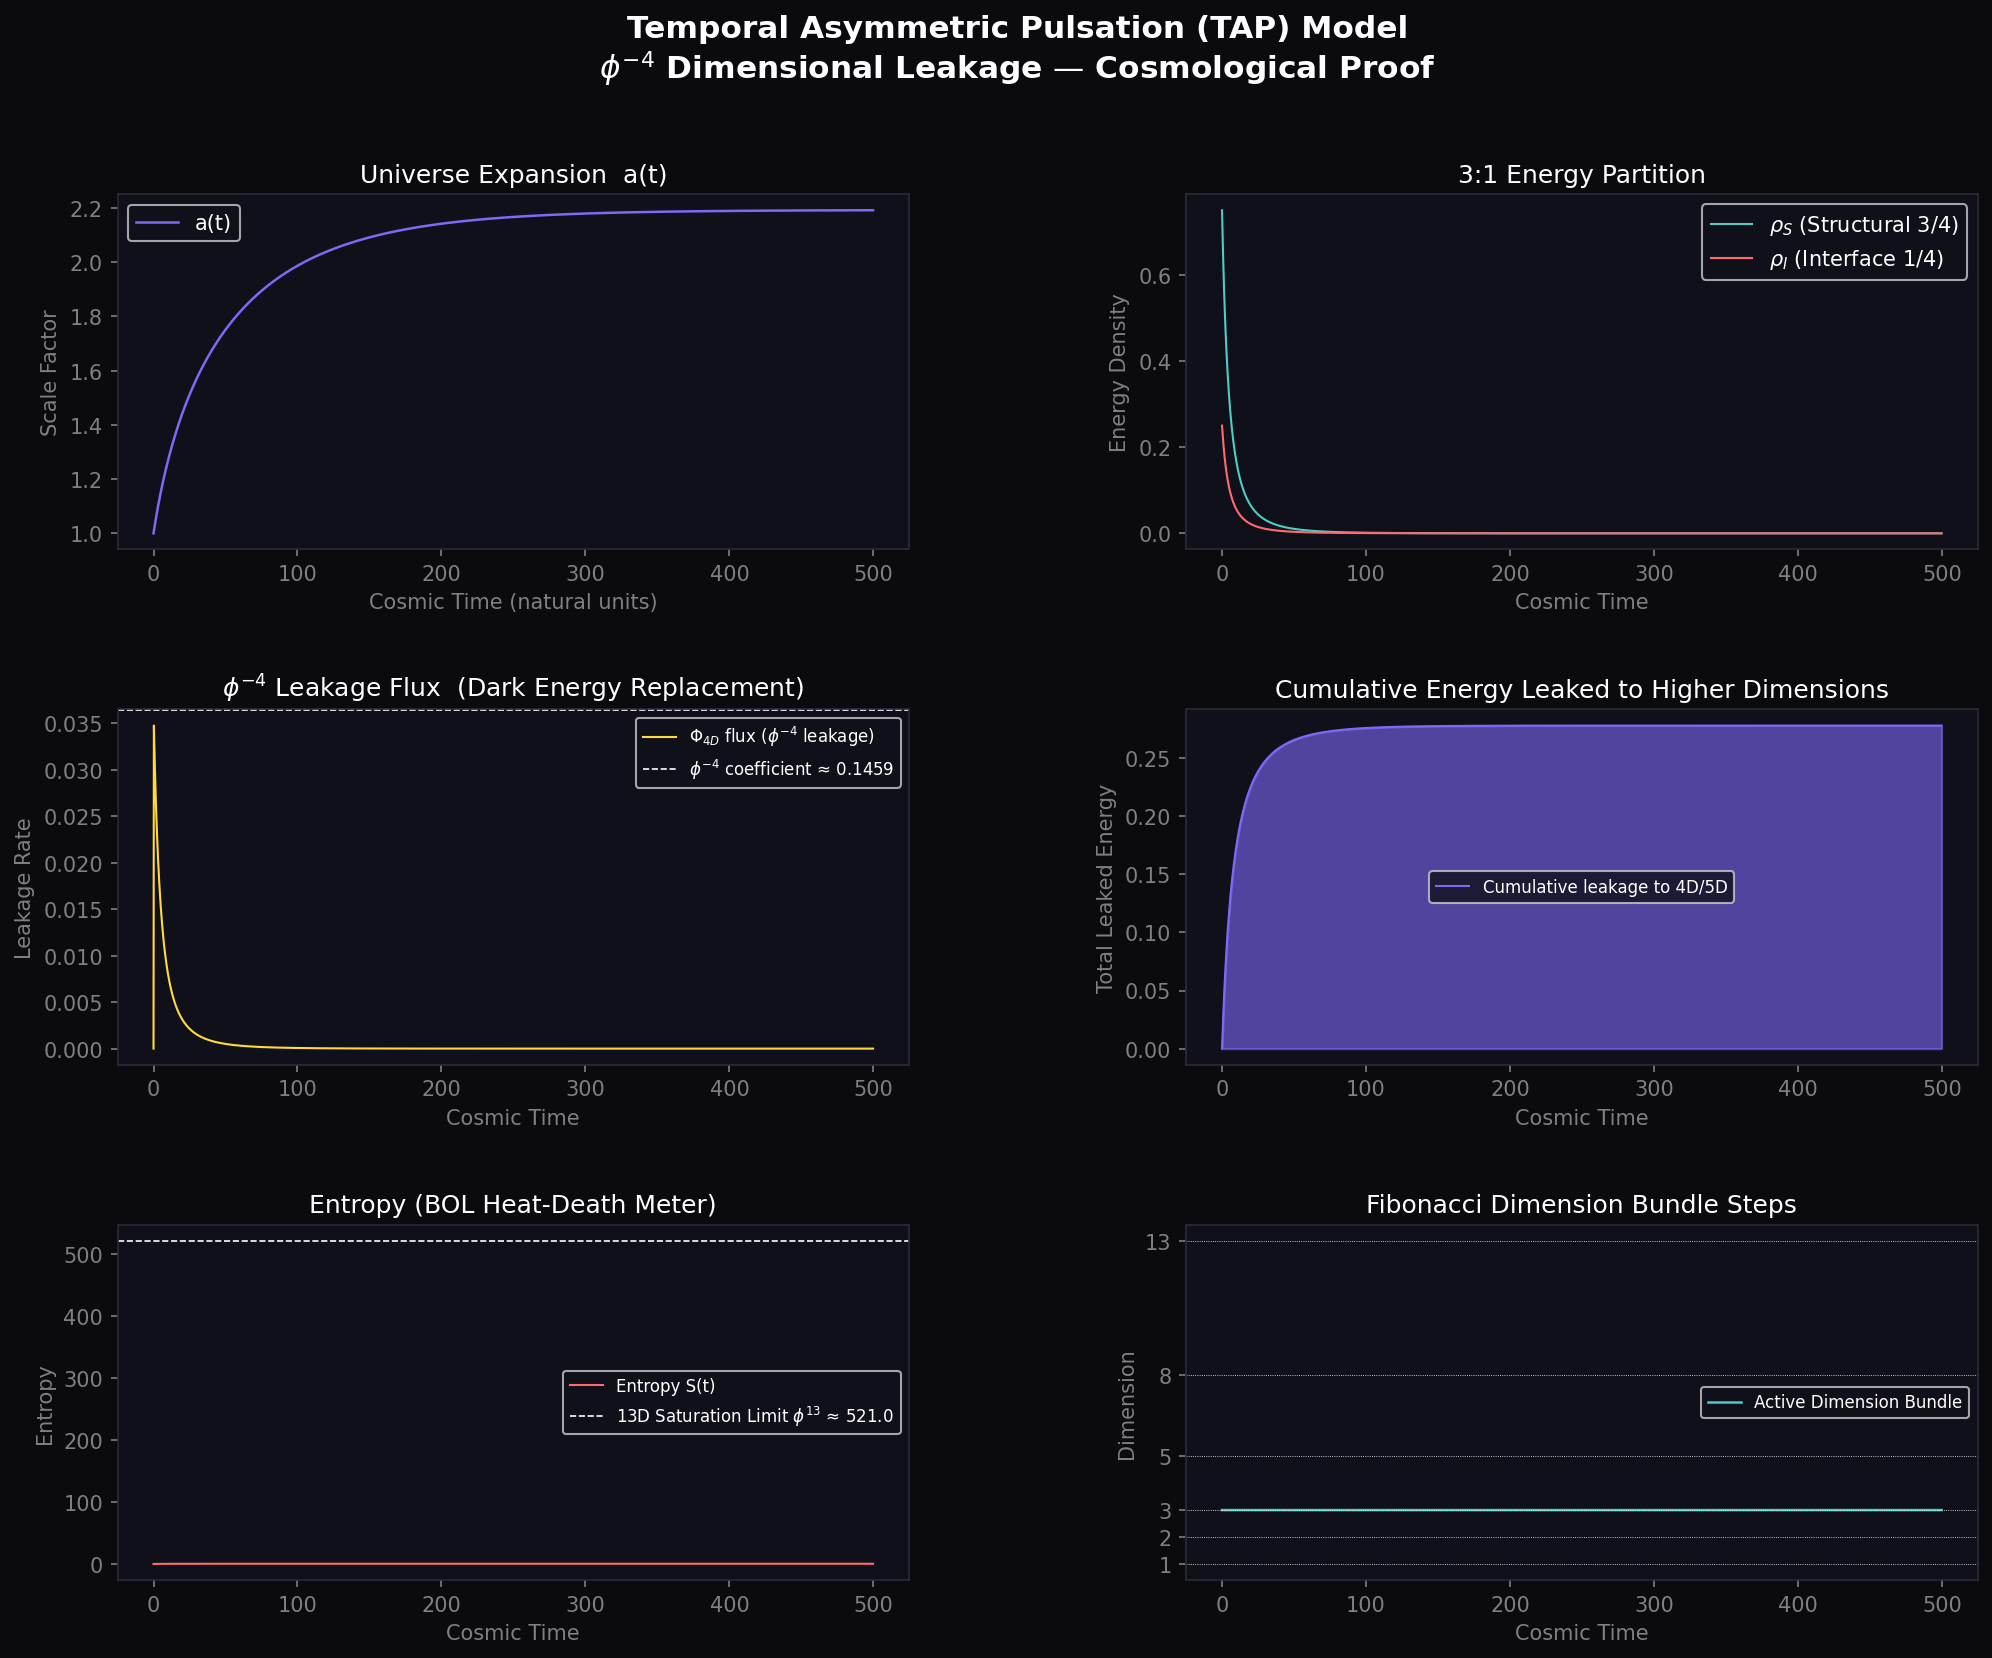
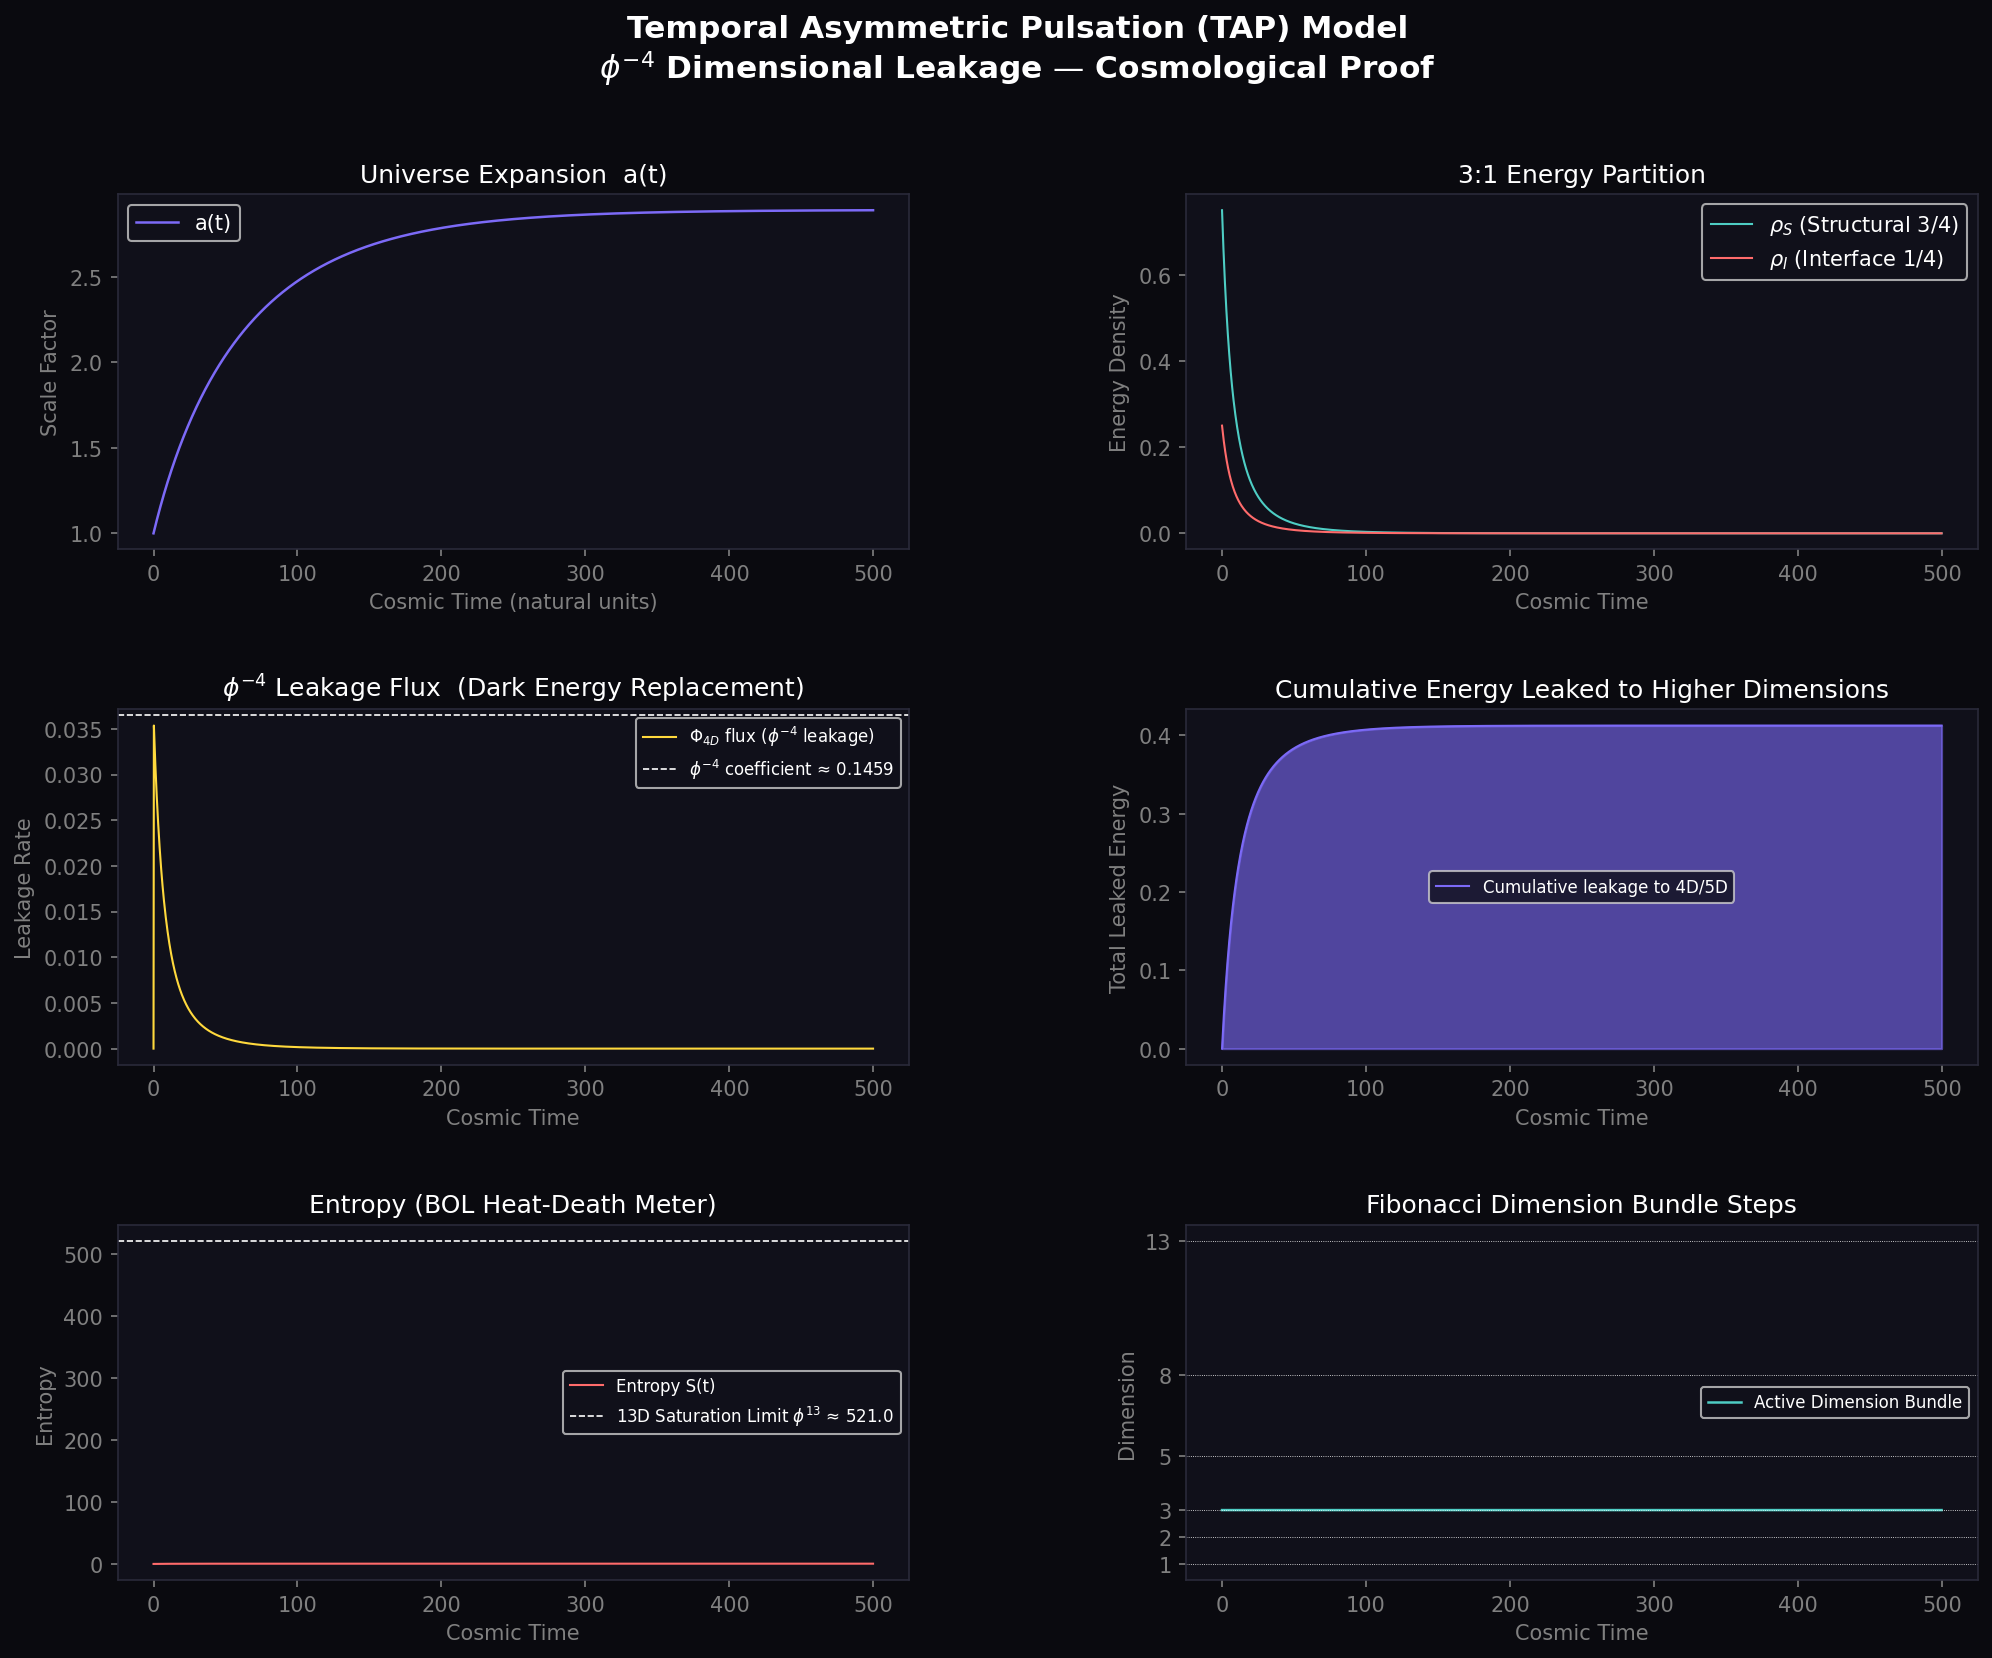
Change to consistent pure differential volume dilution formulation for both rho_S and rho_I

diff --git a/tap_proof.py b/tap_proof.py
@@ -84,25 +84,23 @@ def run_tap_python(initial_energy=1.0,
         # — Expansion (driven by 1/4 interface potential) —
         da_dt   = hubble_constant * a * math.sqrt(max(rho_I, 0.0) + 1e-30)
         a_new   = a + da_dt * dt
+        H       = da_dt / (a + 1e-30)
 
         # — φ^-4 Dimensional Leakage (replaces Λ) —
         exp_ratio = a_new / (a + 1e-30)
         phi_flux  = rho_I * PHI_INV_4 * exp_ratio
         cum_leak += phi_flux * dt
 
-        # — Volume dilution factor (standard FLRW: ∝ a^-3) —
-        vol_f  = 1.0 / (exp_ratio ** 3)
-
         # Restoring force to maintain the 3:1 ratio (Derrick-Hobart stabilization)
         restoration = structural_coupling * (rho_S - 3.0 * rho_I)
 
         # — Structural energy update —
-        d_rho_S = -(3.0 * da_dt / (a + 1e-30)) * rho_S - phi_flux - restoration
-        rho_S   = max(rho_S * vol_f + d_rho_S * dt, 0.0)
+        d_rho_S = -3.0 * H * rho_S - phi_flux - restoration
+        rho_S   = max(rho_S + d_rho_S * dt, 0.0)
 
         # — Interface energy update —
-        d_rho_I = (phi_flux / TAP_RATIO) - (dimensional_drag * rho_I) + restoration
-        rho_I   = max(rho_I * vol_f + d_rho_I * dt, 0.0)
+        d_rho_I = -3.0 * H * rho_I + (phi_flux / TAP_RATIO) - (dimensional_drag * rho_I) + restoration
+        rho_I   = max(rho_I + d_rho_I * dt, 0.0)
 
         # — Entropy accumulation —
         entropy += (phi_flux + max(-d_rho_S, 0.0)) * dt